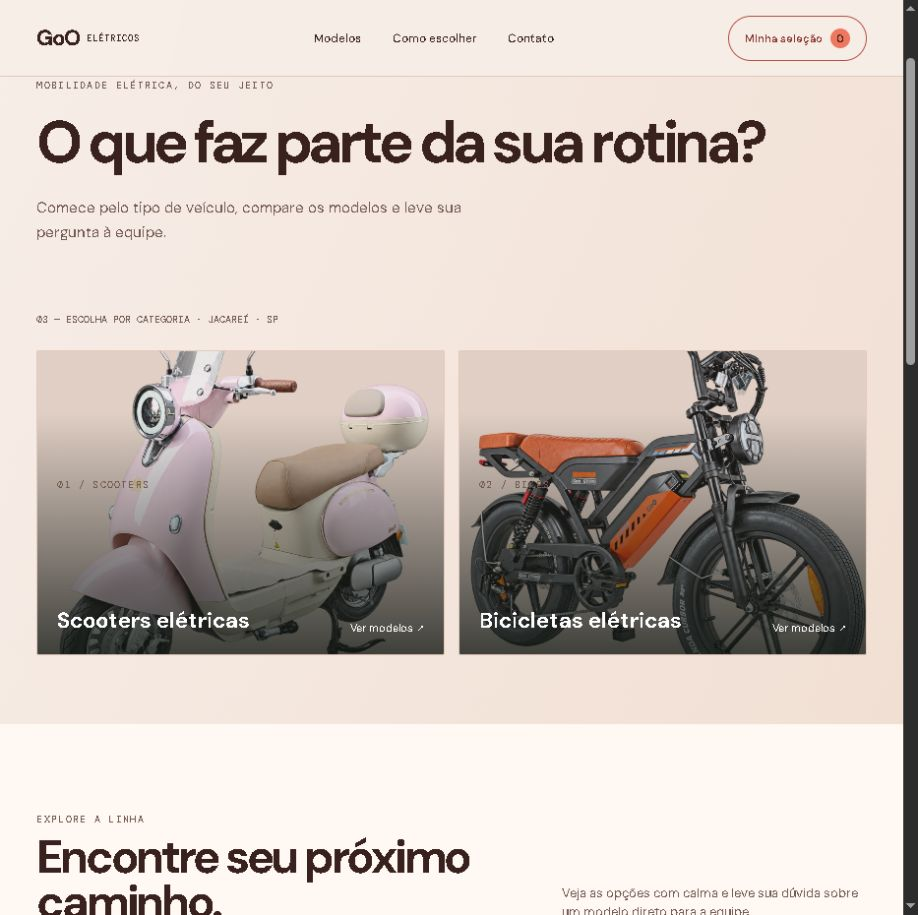
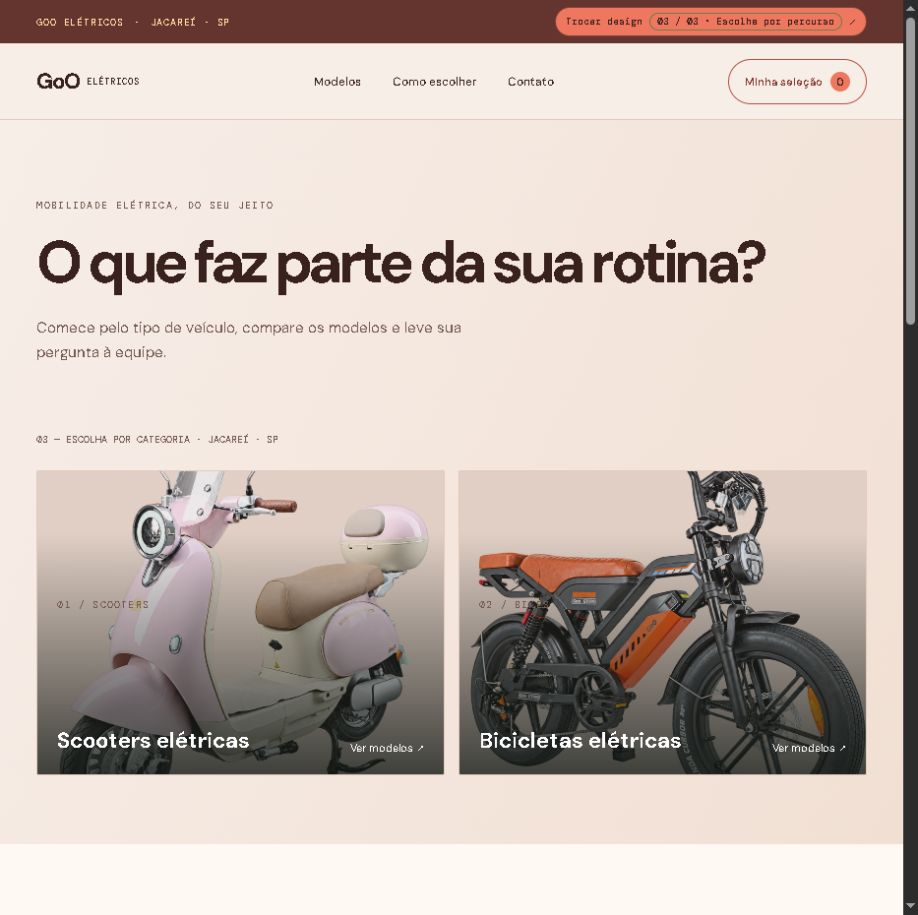
Align design switch with lead prototype pattern

diff --git a/style.css b/style.css
@@ -32,4 +32,6 @@ body[data-direction="2"] .hero.guided{background:linear-gradient(115deg,#f7eee8 
 @media(prefers-reduced-motion:reduce){html{scroll-behavior:auto}.guide-tile img,.photo img,.photo-open,.concept-bar button{transition:none!important}.site-head{backdrop-filter:none}}
 .guide-tile{display:grid;grid-template-columns:1fr auto;align-items:end}.guide-tile span{grid-column:1/-1}.guide-tile i{max-width:76px;text-align:right}
 .toggle-mobile{display:none}
-@media(max-width:620px){.concept-bar{justify-content:space-between}.concept-bar>span:first-child{white-space:nowrap}.concept-bar>span:nth-child(2),.concept-bar>span:nth-child(3){display:none}.concept-bar button{flex-shrink:0;margin-left:auto;white-space:nowrap}.toggle-desktop{display:none}.toggle-mobile{display:inline-flex;align-items:center;gap:5px}.guide-tile{grid-template-columns:1fr}.guide-tile span,.guide-tile i{grid-column:1}.guide-tile i{max-width:none;text-align:left}}
+#designToggle{display:inline-flex;align-items:center;justify-content:flex-end;gap:7px;min-height:30px;padding:5px 10px;border:1px solid color-mix(in srgb,currentColor 62%,transparent);border-radius:999px;white-space:nowrap;line-height:1;cursor:pointer;text-align:right}
+#designToggle b{font-weight:500}
+@media(max-width:620px){.concept-bar{justify-content:space-between}.concept-bar>span:first-child{white-space:nowrap}.concept-bar>span:nth-child(2),.concept-bar>span:nth-child(3){display:none}.concept-bar button{flex-shrink:0;margin-left:auto;white-space:nowrap}#designToggle{max-width:60%;white-space:normal;font-size:8px}.guide-tile{grid-template-columns:1fr}.guide-tile span,.guide-tile i{grid-column:1}.guide-tile i{max-width:none;text-align:left}}

diff --git a/app.js b/app.js
@@ -63,7 +63,7 @@
     $('#experience').innerHTML = renderHero();
     $('#filters').innerHTML = project.categories.map((item) => `<button class="filter ${category === item ? 'active' : ''}" type="button" data-filter="${escape(item)}" aria-pressed="${category === item}">${escape(item)}</button>`).join('');
     document.querySelectorAll('.wa-link').forEach((link) => { link.href = ask(); });
-    $('#designToggle').innerHTML = `<span class="toggle-desktop">Trocar design <b>0${direction + 1} / 03 · ${escape(project.directions[direction][0])}</b> ↗</span><span class="toggle-mobile"><b>Design 0${direction + 1} / 03</b> ↗</span>`;
+    $('#designToggle').innerHTML = `Trocar design <b>0${direction + 1} / 03 · ${escape(project.directions[direction][0])}</b> ↗`;
     $('#designToggle').setAttribute('aria-label', `Trocar design. Direção atual: ${project.directions[direction][0]}. Ative para ver a próxima.`);
     $('#designToggle').title = project.directions[direction][1];
     renderProducts();

diff --git a/index.html b/index.html
@@ -9,7 +9,7 @@
   <link rel="preconnect" href="https://fonts.googleapis.com">
   <link rel="preconnect" href="https://fonts.gstatic.com" crossorigin>
   <link href="https://fonts.googleapis.com/css2?family=DM+Mono:wght@400;500&family=DM+Sans:wght@400;500;600;700;800&family=Playfair+Display:wght@500;600;700&display=swap" rel="stylesheet">
-  <link rel="stylesheet" href="style.css?v=20261028-02">
+  <link rel="stylesheet" href="style.css?v=20261028-04">
 </head>
 <body data-direction="0">
   <div class="concept-bar">
@@ -63,6 +63,6 @@
       ]
     };
   </script>
-  <script src="app.js?v=20261028-02"></script>
+  <script src="app.js?v=20261028-04"></script>
 </body>
 </html>
